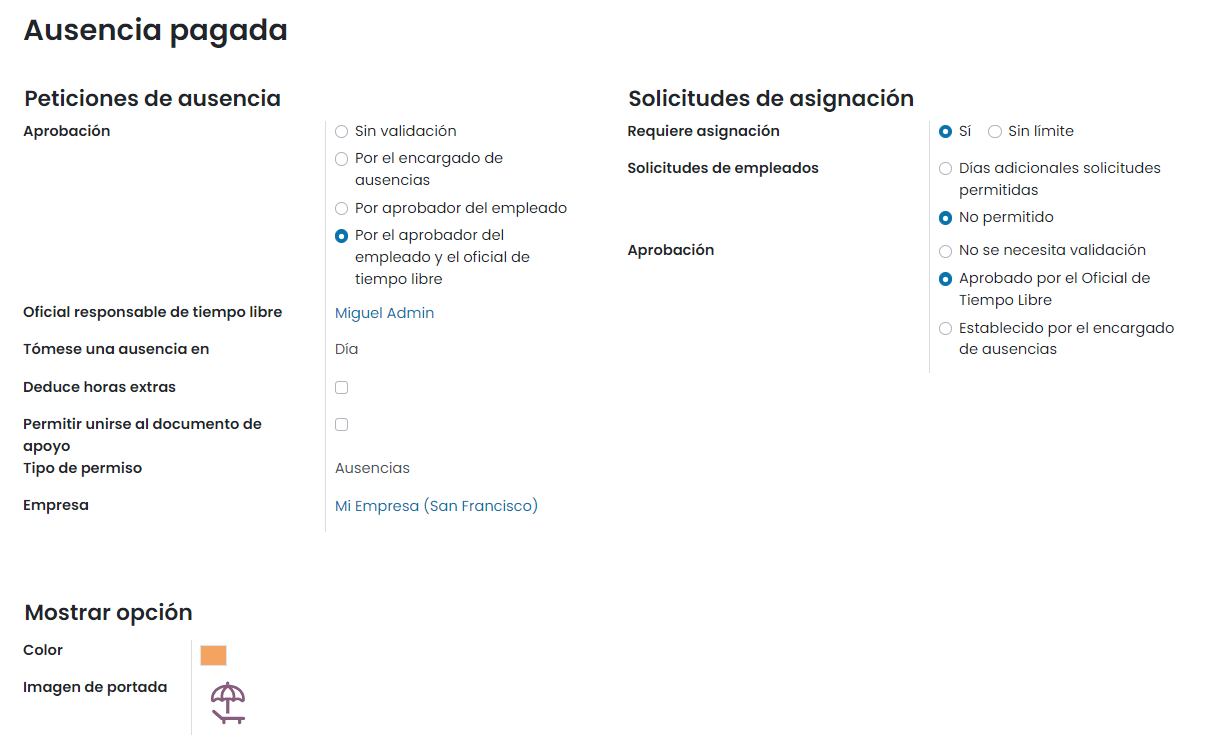
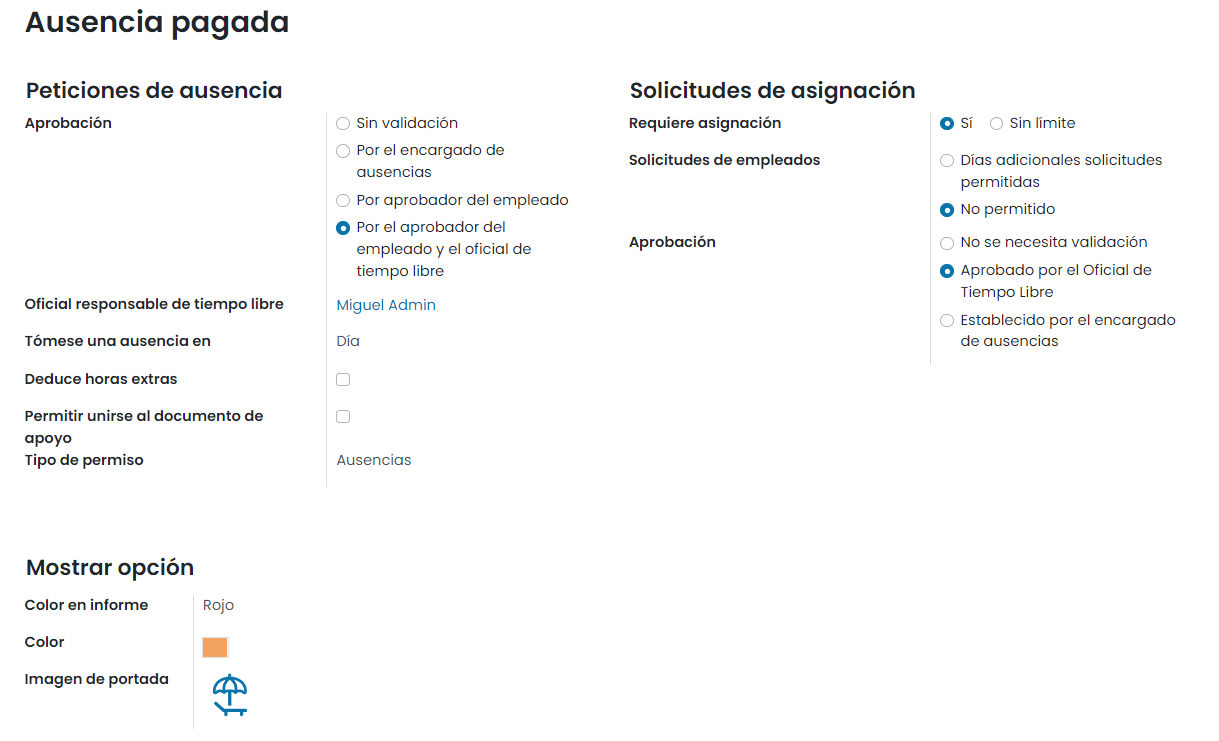
[FIX] ausencias: tipos de ausencias

diff --git a/content/aplicaciones/recursos_humanos/ausencias.rst b/content/aplicaciones/recursos_humanos/ausencias.rst
@@ -69,8 +69,8 @@ como *Sí*. Las **Solicitudes de empleados** se pueden elegir como *Días adicio
 De manera similar, la **Aprobación** se puede seleccionar entre opciones como *No se necesita validación*,
 *Aprobado por el oficial de tiempo libre* o *Establecido por el encargado de ausencias*.
 
-Finalmente, en la sección **Mostrar opción** se permite elegir un color y una imagen de portada para mostrar con el tipo
-de ausencia.
+Finalmente, en la sección **Mostrar opción** se permite elegir un color para el informe de ausencias de empleado, un color
+y una imagen de portada para mostrar con el tipo de ausencia.
 
 Configurar planes de acumulación
 --------------------------------
